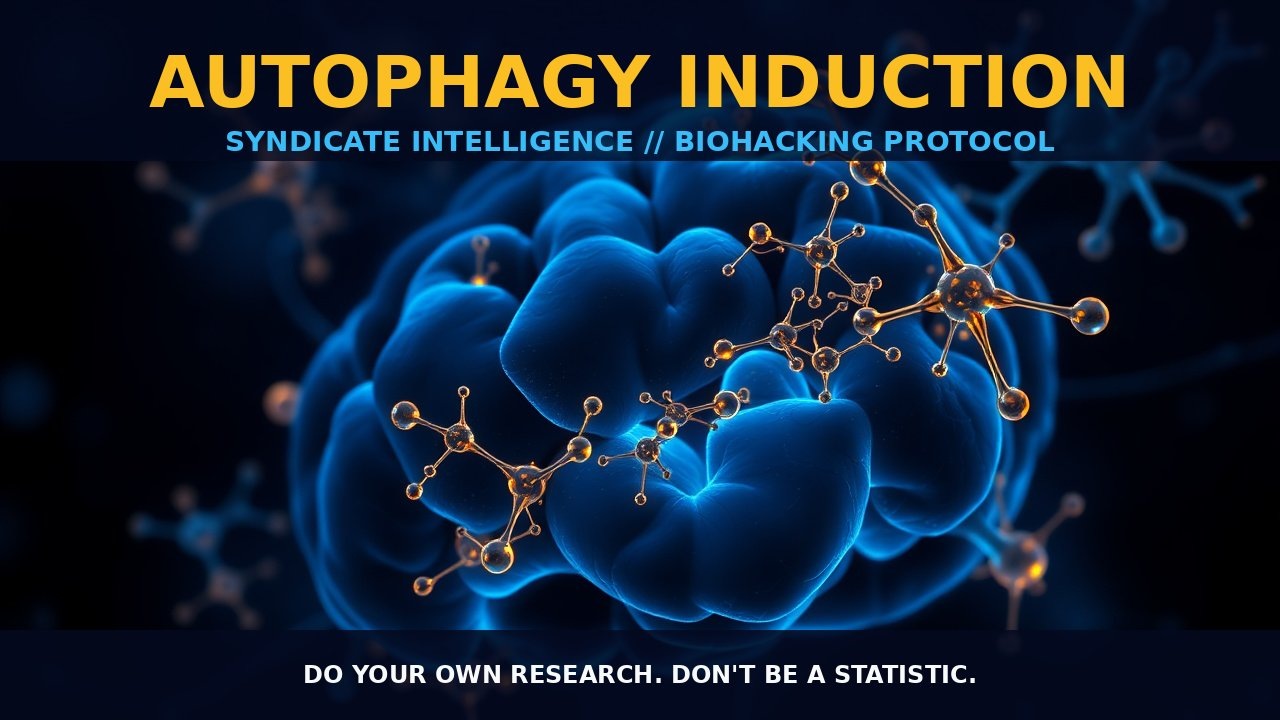
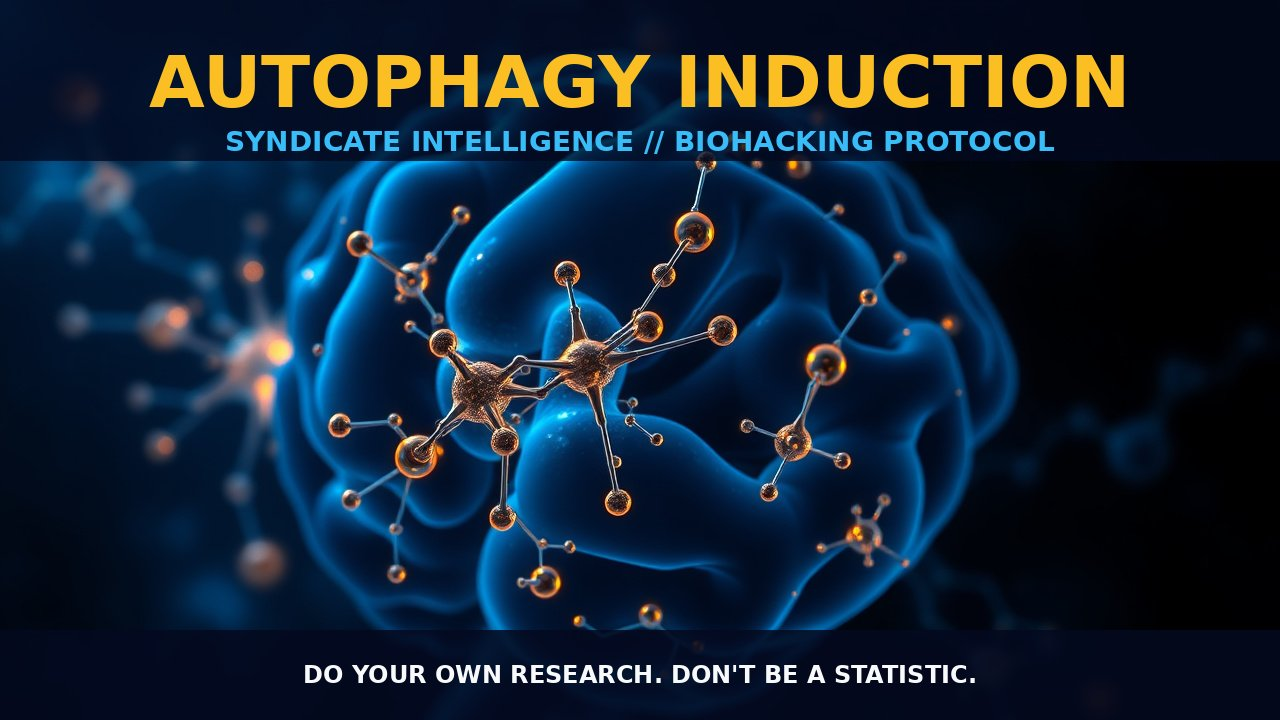
Syndicate Transmission: Autophagy induction

diff --git a/articles/2026-05-01-dive-into-the-intricate-details-of-autophagy-to-unlock-optimal-health.html b/articles/2026-05-01-dive-into-the-intricate-details-of-autophagy-to-unlock-optimal-health.html
@@ -1,0 +1,216 @@
+<!DOCTYPE html>
+<html lang="en">
+<head>
+    <meta charset="UTF-8">
+    <meta name="viewport" content="width=device-width, initial-scale=1.0">
+    <title>Dive into the Intricate Details of Autophagy to Unlock Optimal Health | Hopes and Dreams</title>
+    <link rel="preconnect" href="https://fonts.googleapis.com">
+    <link rel="preconnect" href="https://fonts.gstatic.com" crossorigin>
+    <link rel="dns-prefetch" href="https://fonts.googleapis.com">
+    <link rel="dns-prefetch" href="https://fonts.gstatic.com">
+    <link href="https://fonts.googleapis.com/css2?family=Inter:wght@400;700;900&display=swap" rel="stylesheet">
+    <link rel="stylesheet" href="../style.css">
+    <style>
+        /* --- ARTICLE CONTENT AREA --- */
+        .article-container {
+            max-width: 800px;
+            margin: 0 auto;
+            padding: 0 24px 100px;
+        }
+
+        .glow-divider {
+            width: 100%;
+            height: 1px;
+            background: radial-gradient(circle, var(--neon-blue) 0%, transparent 70%);
+            opacity: 0.2;
+            margin-bottom: 60px;
+        }
+
+        h1 {
+            color: var(--text-main);
+            font-size: clamp(2.2rem, 7vw, 3.5rem);
+            font-weight: 900;
+            line-height: 1.1;
+            margin-bottom: 25px;
+            text-shadow: 0 0 30px rgba(255, 255, 255, 0.2);
+        }
+
+        .meta-data {
+            color: var(--neon-gold);
+            text-transform: uppercase;
+            font-size: 0.9rem;
+            letter-spacing: 2px;
+            font-weight: 700;
+            margin-bottom: 40px;
+            display: block;
+        }
+
+        h2 {
+            color: #ffffff;
+            font-size: clamp(1.6rem, 5vw, 2.4rem);
+            font-weight: 800;
+            margin-top: 60px;
+            margin-bottom: 25px;
+            text-transform: uppercase;
+            letter-spacing: 2px;
+            text-shadow: 0 0 15px var(--neon-blue), 0 0 5px #ffffff;
+        }
+
+        p {
+            color: var(--text-dim);
+            font-size: 1.2rem;
+            margin-bottom: 25px;
+        }
+
+        strong {
+            color: var(--text-main);
+            font-weight: 700;
+        }
+
+        .hack-box {
+            background-color: var(--card-bg);
+            border-left: 4px solid var(--neon-gold);
+            padding: 30px;
+            border-radius: 0 16px 16px 0;
+            margin: 40px 0;
+        }
+
+        .hack-box h4 {
+            color: var(--neon-gold);
+            margin: 0 0 10px 0;
+            text-transform: uppercase;
+            letter-spacing: 1px;
+        }
+
+        .article-img {
+            width: 100%;
+            border-radius: 24px;
+            border: 1px solid rgba(56, 189, 248, 0.2);
+            margin: 40px 0;
+        }
+
+        ul {
+            color: var(--text-dim);
+            font-size: 1.1rem;
+            margin-bottom: 30px;
+        }
+
+        li {
+            margin-bottom: 10px;
+        }
+
+        .syndicate-footer {
+            margin-top: 80px;
+            padding: 40px;
+            background: rgba(56, 189, 248, 0.05);
+            border: 1px solid rgba(56, 189, 248, 0.1);
+            border-radius: 24px;
+            text-align: center;
+        }
+
+        .btn-fb {
+            display: inline-block;
+            margin-top: 20px;
+            background: var(--neon-blue);
+            color: var(--bg-main);
+            padding: 15px 30px;
+            border-radius: 50px;
+            text-decoration: none;
+            font-weight: 900;
+            text-transform: uppercase;
+            transition: 0.3s;
+        }
+
+        .btn-fb:hover {
+            background: var(--neon-gold);
+            transform: scale(1.05);
+        }
+
+        footer {
+            text-align: center;
+            padding: 60px 0;
+            color: #4b5563;
+            font-size: 0.85rem;
+            border-top: 1px solid rgba(255, 255, 255, 0.05);
+        }
+
+        .timestamp-live {
+            min-height: 1.2em;
+        }
+
+        @media (max-width: 600px) {
+            h1 { font-size: 2rem; }
+            nav { flex-direction: column; gap: 20px; align-items: center; }
+        }
+    </style>
+</head>
+<body>
+    <div id="scroll-progress"></div>
+    <button id="theme-toggle" class="theme-toggle-pill" aria-label="Toggle between dark and light mode">☀ LIGHT MODE</button>
+
+    <header>
+        <div class="logo-wrap">
+            <img src="../topper.png" alt="Hopes and Dreams" width="1780" height="1050" fetchpriority="high">
+        </div>
+
+        <nav>
+            <a href="../index.html">Home</a>
+            <a href="../shop.html">Procurement</a>
+            <a href="../optimization.html">Optimization</a>
+            <a href="../intel.html">Intel Hub</a>
+            <a href="../about.html">About</a>
+            <a href="../privacy.html">Privacy</a>
+        </nav>
+    </header>
+
+    <div class="container">
+        <article class="article-container" data-reveal>
+            <div class="timestamp-live" data-timestamp="[ LIVE FEED ] RECEIVED: 2026-05-01 15:01:06 AST"></div>
+            <h1>Dive into the Intricate Details of Autophagy to Unlock Optimal Health</h1>
+
+            <img src="../media/general/2026-05-01-autophagy-induction.jpg" alt="Autophagy induction" class="article-img">
+
+            <div class="intel-burst">
+                <h2>Unlocking the Power of Autophagy: A Deep Dive</h2><h2>1. The Mechanism</h2><p>The intricate dance behind autophagy induction is orchestrated by a symphony of cellular responses to internal and external stimuli. Central to this mechanism are nutrient-sensing pathways that detect the availability of essential nutrients in our bloodstream. This activation process involves key regulators such as AMPK, mTOR, ULK1, and ATG13, which work in concert with various other molecules to manage cellular energy status and growth under different nutritional conditions.</p><h2>2. The Biological Leverage</h2><p>The therapeutic potential of autophagy extends into numerous domains, including neuroprotection and cancer treatment. By enhancing this process, individuals may bolster overall healthspan and longevity through improved cellular turnover and quality control. For instance, the removal of aggregated proteins via autophagy could offer protection against neurodegenerative diseases like Alzheimer's and Parkinson's. Studies have shown that modulation of autophagy can significantly improve age-related cognitive decline, reducing the risk of dementia.</p><h2>3. Tactical Implementation</h2><p>Achieving optimal autophagy levels can be facilitated through various avenues. Intermittent fasting has been shown to induce this process within safe parameters, particularly during the fasting phase when cellular energy levels drop, prompting cells to initiate catabolic pathways over anabolic ones. Additionally, nutraceuticals like resveratrol and ginseng extract have demonstrated pharmacological induction at effective doses without significant adverse effects. It is critical for individuals with certain health conditions or taking medication to consult healthcare professionals before adopting these interventions due to potential interactions or contraindications. Coupling these strategies with regular physical exercise further amplifies their efficacy by suppressing mTOR signaling through calorie restriction, thereby enhancing cellular stress resistance and longevity.</p><h2>Integrating Autophagy-Boosting Strategies into Your Lifestyle</h2><p>To harness the power of autophagy for enhanced healthspan and longevity, consider incorporating balanced fasting routines, specifically intermittent fasting protocols. Supplement these with specific nutraceuticals like resveratrol and ginseng extract under medical guidance. Additionally, regular exercise is fundamental in naturally enhancing cellular turnover and resilience.</p>
+            </div>
+
+            <div class="hack-box"><h4>Prostar Life Hack</h4><p>Enhance Your Cellular Symphony: Autophagy for Improved Healthspan and Longevity</p></div>
+
+            <div class="researcher-sig">
+                [ STATUS: TRANSMISSION_COMPLETE ]<br>
+                [ AUTHOR: LEAD TECHNICAL RESEARCHER ]
+            </div>
+
+            <div class="syndicate-footer">
+                <h3>Join the Conversation</h3>
+                <p>Discuss this transmission and share your results with the rest of the builders in our private community.</p>
+                <a href="https://www.facebook.com/profile.php?id=61581034972328" class="btn-fb" target="_blank" rel="noopener noreferrer">Connect on Facebook →</a>
+            </div>
+        </article>
+
+        <section id="article-navigation" class="article-nav-section"></section>
+
+        <section class="newsletter-section" data-reveal>
+            <div class="newsletter-box">
+                <h3>Join the Syndicate</h3>
+                <p>Initialize your subscription for weekly intelligence on neuro-optimization, biological hacking, and technical stack evolution.</p>
+                <form action="https://formspree.io/f/xqegvale" method="POST" class="newsletter-form">
+                    <input type="email" name="email" placeholder="Enter your email address" required>
+                    <button type="submit">Secure Entry</button>
+                </form>
+            </div>
+        </section>
+
+        <footer>
+            <p>&copy; 2026 Hopes and Dreams. All Rights Reserved.</p>
+        </footer>
+    </div>
+
+    <script src="https://cdnjs.cloudflare.com/ajax/libs/gsap/3.12.5/gsap.min.js"></script>
+    <script src="https://cdnjs.cloudflare.com/ajax/libs/gsap/3.12.5/Flip.min.js"></script>
+    <script src="https://cdnjs.cloudflare.com/ajax/libs/gsap/3.12.5/TextPlugin.min.js"></script>
+    <script src="../codex.js" defer></script>
+    <script src="../script.js" defer></script>
+
+</body>
+</html>

diff --git a/intel.html b/intel.html
@@ -125,7 +125,13 @@
 <h2 class="section-title">Syndicate Transmissions</h2>
 <div class="grid" id="transmissions-grid">
 <!-- LATEST_3_POSTS_START -->
-                <div class="card">
+                <div class="card priority-1">
+                    <div class="meta-data" style="font-size: 0.7rem; color: var(--neon-gold); margin-bottom: 10px;">TRANSMISSION: 2026-05-01</div>
+                    <h3 style="color: #ffffff; text-shadow: 0 0 10px var(--neon-blue);">Dive into the Intricate Details of Autophagy to Unlock Optimal Health</h3>
+                    <p>Dive into the Intricate Details of Autophagy to Unlock Optimal Health protocol initialized. Access the full intel burst below.</p>
+                    <a href="articles/2026-05-01-dive-into-the-intricate-details-of-autophagy-to-unlock-optimal-health.html" class="buy-btn" style="font-size: 0.7rem; padding: 8px 16px;">View Intel →</a>
+                </div>
+<div class="card">
                     <div class="meta-data" style="font-size: 0.7rem; color: var(--neon-gold); margin-bottom: 10px;">TRANSMISSION: 2026-05-01</div>
                     <h3 style="color: #ffffff; text-shadow: 0 0 10px var(--neon-blue);">Alpha GPC Choline</h3>
                     <p>Alpha GPC Choline protocol initialized. Access the full intel burst below.</p>
@@ -137,23 +143,17 @@
                     <p>Autophagy Induction protocol initialized. Access the full intel burst below.</p>
                     <a href="articles/2026-05-01-autophagy-induction.html" class="buy-btn" style="font-size: 0.7rem; padding: 8px 16px;">View Intel →</a>
                 </div>
-<div class="card">
-                    <div class="meta-data" style="font-size: 0.7rem; color: var(--neon-gold); margin-bottom: 10px;">TRANSMISSION: 2026-05-01</div>
-                    <h3>The Science of Coffee</h3>
-                    <p>The Science of Coffee protocol initialized. Access the full intel burst below.</p>
-                    <a href="articles/2026-05-01-the-science-of-coffee.html" class="buy-btn" style="font-size: 0.7rem; padding: 8px 16px;">View Intel →</a>
-                </div>
                 <!-- LATEST_3_POSTS_END -->
 </div>
 <div id="older-transmissions-container" style="text-align: left; margin-top: 30px; padding: 30px; background: var(--card-bg); border: 1px solid rgba(56, 189, 248, 0.1); border-radius: 24px;">
 <h4 style="color: var(--neon-blue); text-transform: uppercase; letter-spacing: 2px; margin-top: 0; margin-bottom: 20px; font-size: 0.9rem;">Intelligence Archive</h4>
 <ul id="older-posts-links" style="list-style: none; padding: 0; margin-bottom: 20px;">
 <!-- OLDER_POSTS_START -->
+                    <li style="margin-bottom: 10px;"><a href="articles/2026-05-01-dive-into-the-intricate-details-of-autophagy-to-unlock-optimal-health.html" style="color: var(--text-dim); text-decoration: none; font-size: 0.85rem;">[2026-05-01] Dive into the Intricate Details of Autophagy to Unlock Optimal Health</a></li>
                     <li style="margin-bottom: 10px;"><a href="articles/2026-05-01-alpha-gpc-choline.html" style="color: var(--text-dim); text-decoration: none; font-size: 0.85rem;">[2026-05-01] Alpha GPC Choline</a></li>
                     <li style="margin-bottom: 10px;"><a href="articles/2026-05-01-autophagy-induction.html" style="color: var(--text-dim); text-decoration: none; font-size: 0.85rem;">[2026-05-01] Autophagy Induction</a></li>
                     <li style="margin-bottom: 10px;"><a href="articles/2026-05-01-the-science-of-coffee.html" style="color: var(--text-dim); text-decoration: none; font-size: 0.85rem;">[2026-05-01] The Science of Coffee</a></li>
                     <li style="margin-bottom: 10px;"><a href="articles/2026-04-30-deep-meditation-techniques.html" style="color: var(--text-dim); text-decoration: none; font-size: 0.85rem;">[2026-04-30] Deep Meditation Techniques</a></li>
-                    <li style="margin-bottom: 10px;"><a href="articles/2026-04-29-cannabis-benefits-masterclass.html" style="color: var(--text-dim); text-decoration: none; font-size: 0.85rem;">[2026-04-29] CANNABIS BENEFITS MASTERCLASS</a></li>
                     <!-- OLDER_POSTS_END -->
 </ul>
 <a class="buy-btn" href="transmissions.html" style="display: inline-block; width: auto; padding: 8px 20px; font-size: 0.7rem;">Access Full Vault →</a>

diff --git a/transmissions.html b/transmissions.html
@@ -75,7 +75,11 @@
 <div class="archive-list" id="full-archive-list">
 <div class="glow-divider"></div>
 <!-- ARCHIVE_POSTS_START -->
-            <a href="articles/2026-05-01-alpha-gpc-choline.html" class="archive-item">
+            <a href="articles/2026-05-01-dive-into-the-intricate-details-of-autophagy-to-unlock-optimal-health.html" class="archive-item">
+                <span class="title">Dive into the Intricate Details of Autophagy to Unlock Optimal Health</span>
+                <span class="date">2026-05-01</span>
+            </a>
+<a href="articles/2026-05-01-alpha-gpc-choline.html" class="archive-item">
                 <span class="title">Alpha GPC Choline</span>
                 <span class="date">2026-05-01</span>
             </a>
